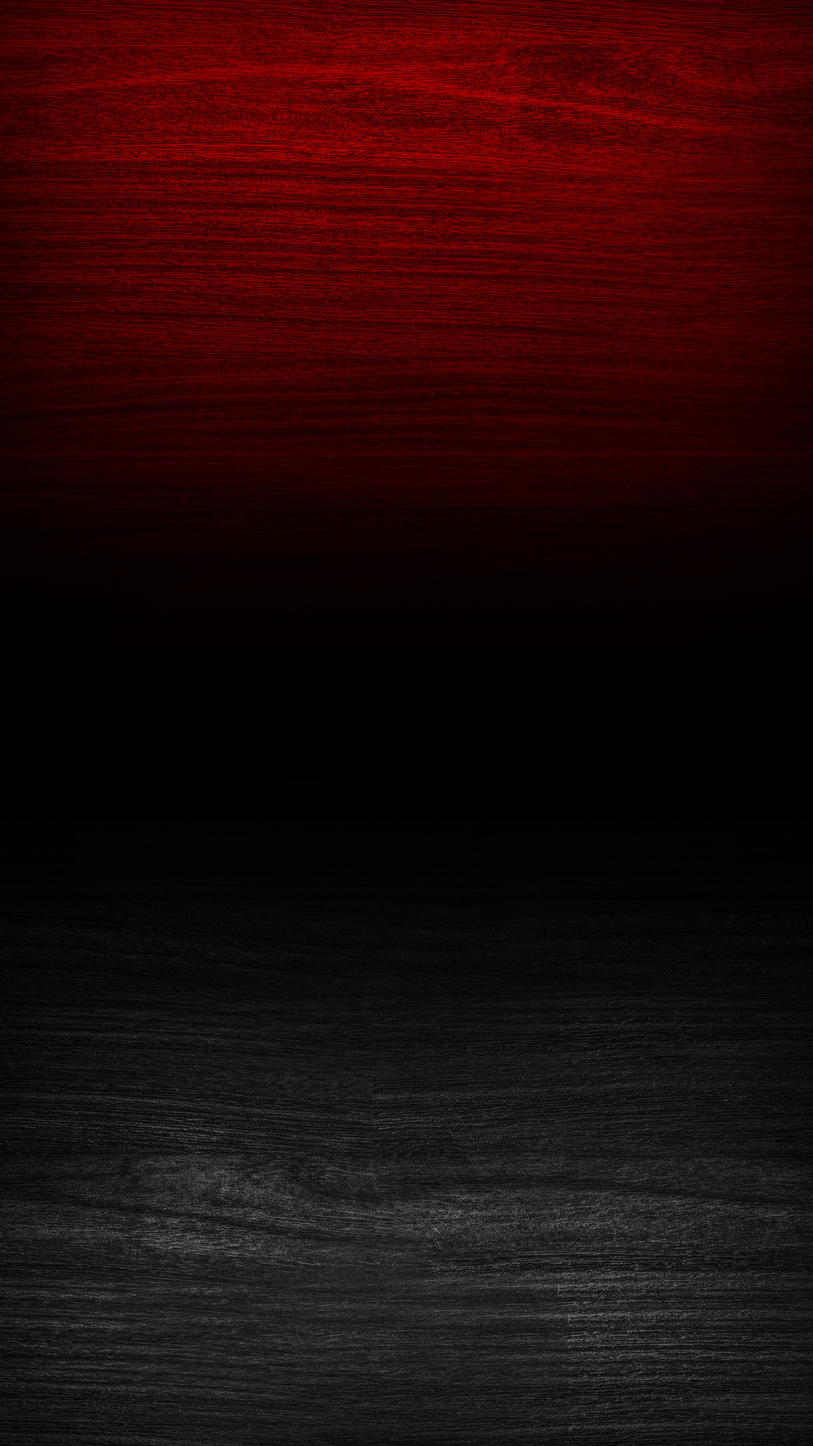
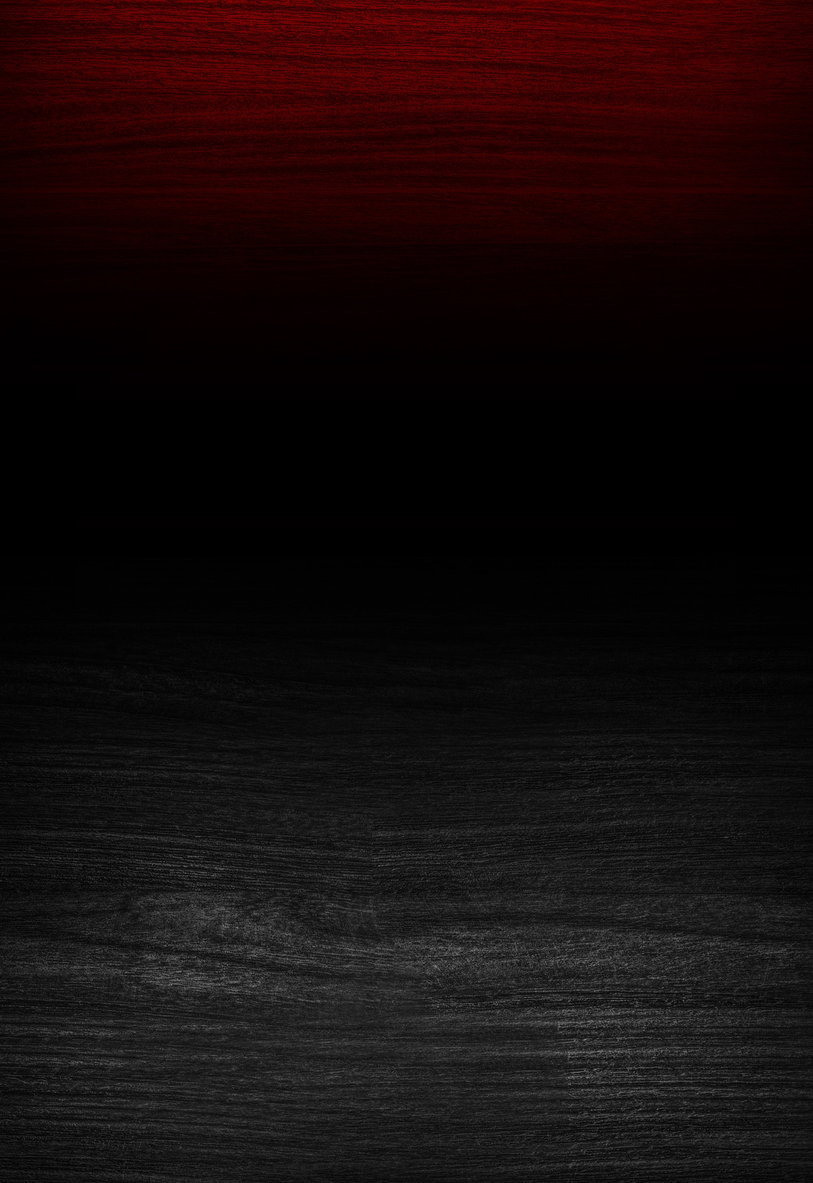
background image corrected

diff --git a/src/pages/Projects.jsx b/src/pages/Projects.jsx
@@ -8,22 +8,29 @@ const Projects = () => {
   const image = './chatAppSignup.png'
 
   return (
-    <div className='min-h-screen bg-cover flex justify-center items-center flex-col gap-6' style={{backgroundImage: 'url(backgroundGradient-6.jpg)'}}>
+    // <div className='min-h-screen bg-cover flex justify-center items-center flex-col gap-6' style={{backgroundImage: 'url(backgroundGradient-6.jpg)'}}>
 
-      <Header />
+    //   <Header />
       
-      <ProjectContainer image={image}>
-        User can send message in realtime to other users. <br/>
-        In this Project, I have used ReactJS for the frontend, redux toolkit for the state management and I have used Appwrite as the backend and authentication service.
-      </ProjectContainer>
+    //   <ProjectContainer image={image}>
+    //     User can send message in realtime to other users. <br/>
+    //     In this Project, I have used ReactJS for the frontend, redux toolkit for the state management and I have used Appwrite as the backend and authentication service.
+    //   </ProjectContainer>
 
-      <ProjectContainer image={image}>
-        User can write his blog and can read other's blog. <br/>
-        In this project, I have used ReactJS for the frontend, redux tookit for he state management and Appwrite as the backend and authentication service.  
-      </ProjectContainer>  
+    //   <ProjectContainer image={image}>
+    //     User can write his blog and can read other's blog. <br/>
+    //     In this project, I have used ReactJS for the frontend, redux tookit for he state management and Appwrite as the backend and authentication service.  
+    //   </ProjectContainer>  
 
+    //   <Footer />
+
+    // </div>
+     <div className='bg-black'>
+      <Header />
+      <div className='min-h-screen flex justify-center items-center'>
+    <h1 className='text-4xl text-white font-bold '>Updating Soon...</h1>
+    </div>
       <Footer />
-
     </div>
   )
 }

diff --git a/src/App.jsx b/src/App.jsx
@@ -5,9 +5,7 @@ function App() {
 
   return (
     <>
-     
      <Outlet />
-    
     </>
   )
 }
